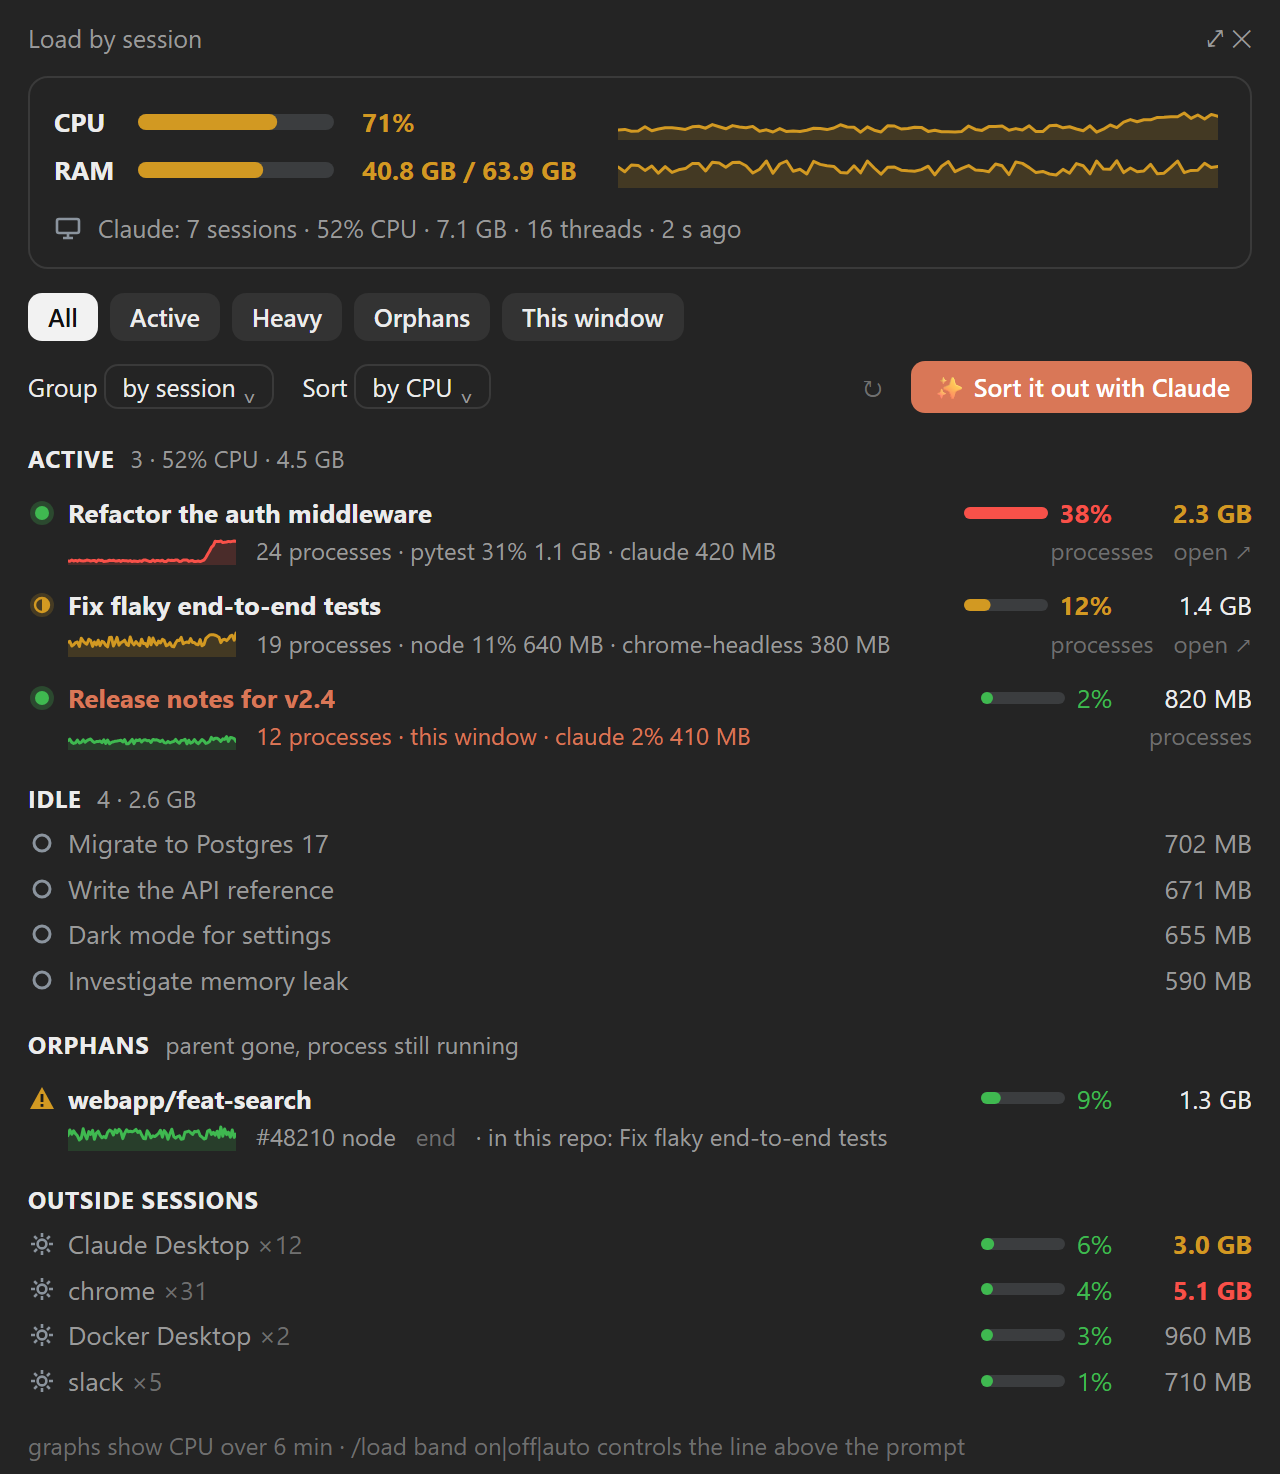
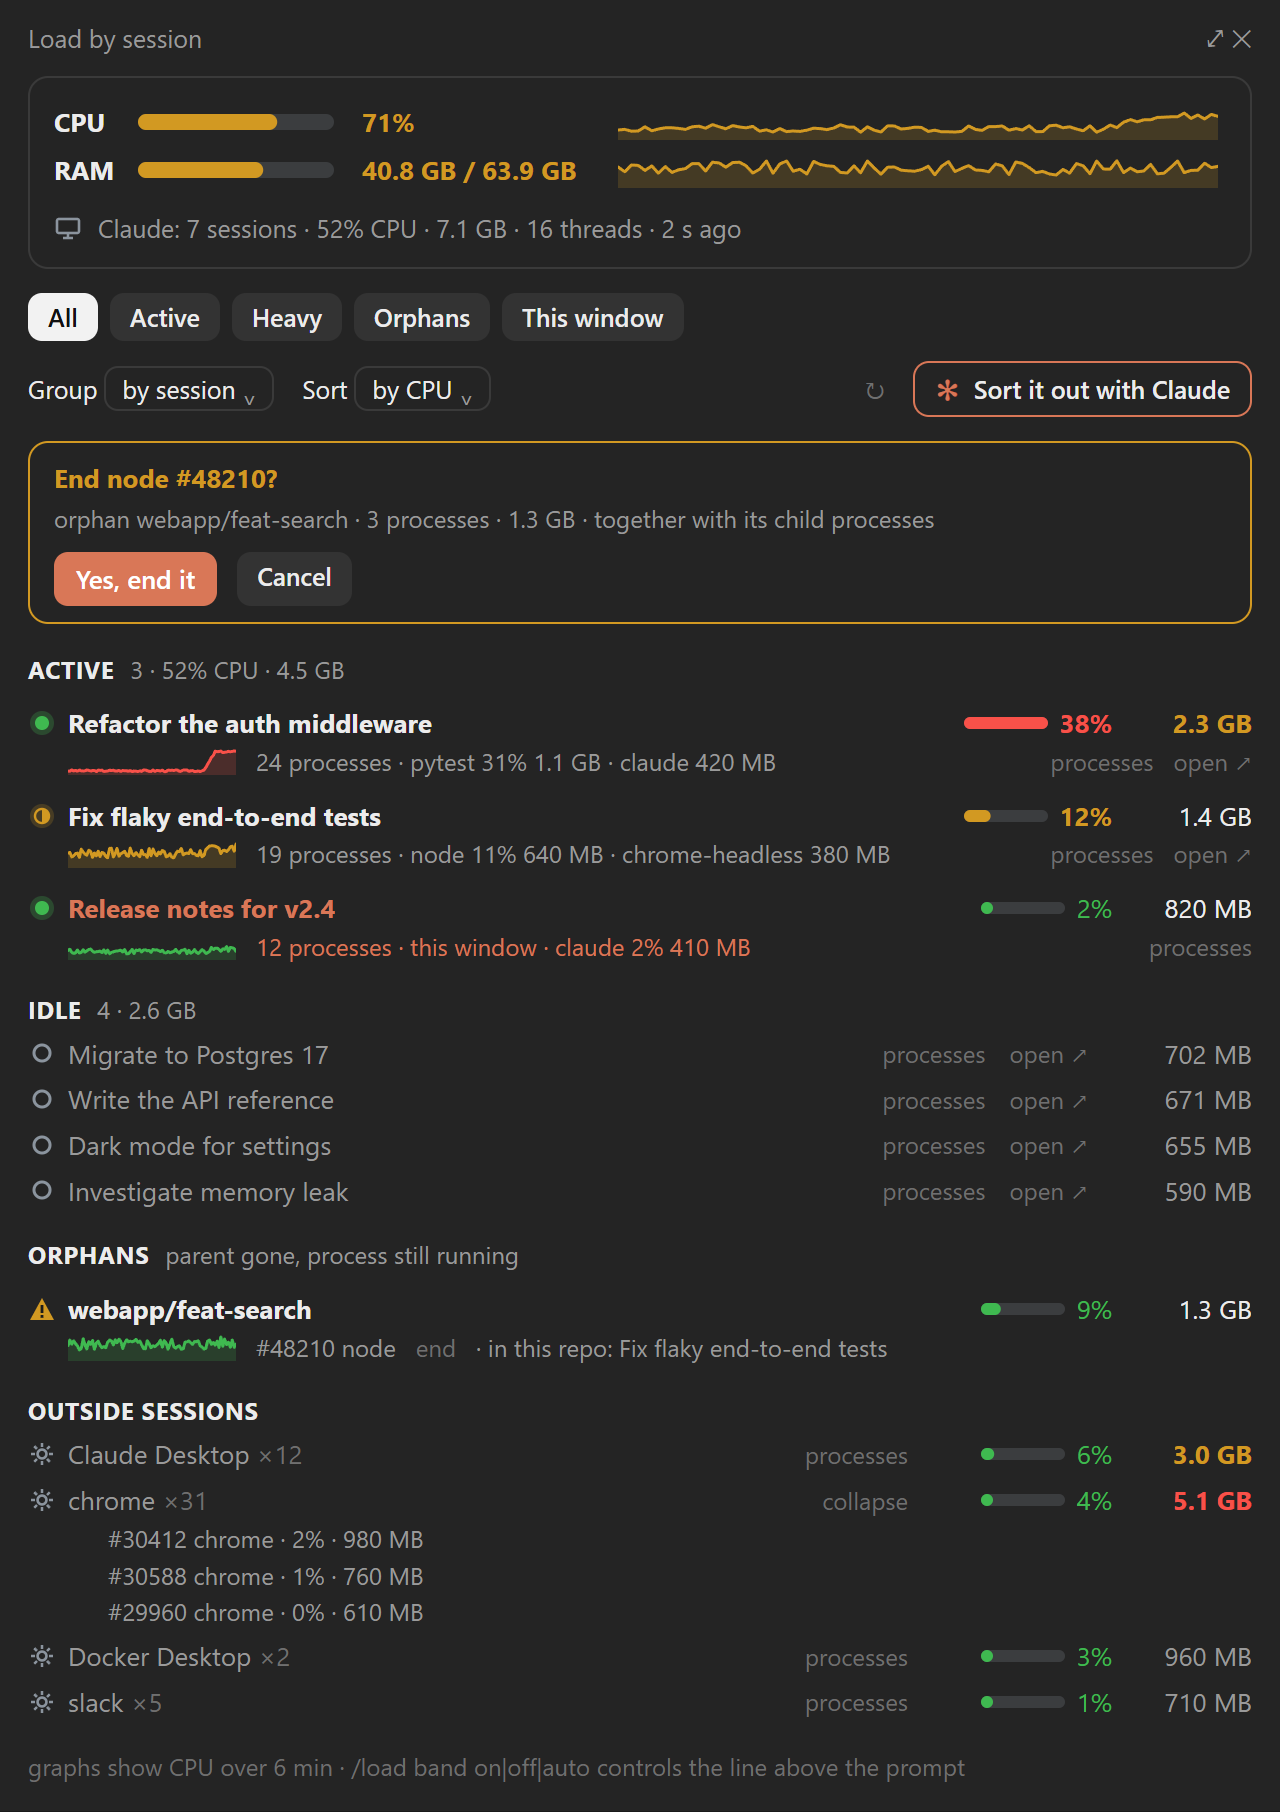
docs: screenshots for the 1.1.0 pane
The mock's pane scene follows 1.1.0: idle sessions on one line with
their buttons, the end confirmation with the live tree's size and
memory, an outside group expanded to its heaviest PIDs, and the triage
button with Claude's mark in an orange frame. pane.png (640x906) and the
social preview are rendered again; band and terminal are unchanged.

diff --git a/docs/mock/index.html b/docs/mock/index.html
@@ -29,6 +29,16 @@
   .select::after { content: "  ⌄"; color: var(--dim); }
   .grow { flex: 1; }
   .primary { background: var(--accent); color: #fff; border-radius: 7px; padding: 4px 11px; font-weight: 600; }
+  .claude { border: 1px solid var(--accent); border-radius: 8px; padding: 3px 10px; display: flex; gap: 7px; align-items: center; font-weight: 600; }
+  .claude b { color: var(--accent); font-size: 14px; }
+  .confirm { border: 1px solid var(--warn); border-radius: 10px; padding: 8px 12px; margin-top: 12px; }
+  .confirm .q { color: var(--warn); font-weight: 700; }
+  .confirm .note { color: var(--dim); font-size: 12px; margin-top: 2px; }
+  .confirm .btns { display: flex; gap: 10px; margin-top: 8px; }
+  .row.line { grid-template-columns: 20px 1fr auto 70px; }
+  .row.line .acts { display: flex; gap: 12px; color: var(--faint); font-size: 12px; margin-right: 12px; }
+  .row.out { grid-template-columns: 20px 1fr auto 96px 70px; }
+  .pid { padding-left: 40px; color: var(--dim); font-size: 12px; margin-top: 1px; }
   .section { margin-top: 14px; font-weight: 700; letter-spacing: .03em; font-size: 12px; }
   .section span { color: var(--dim); font-weight: 400; letter-spacing: 0; margin-left: 8px; }
   .row { display: grid; grid-template-columns: 20px 1fr 96px 70px; align-items: center; margin-top: 9px; }
@@ -102,7 +112,11 @@ const demo = {
     { name: 'Dark mode for settings', mem: 655 }, { name: 'Investigate memory leak', mem: 590 },
   ],
   orphans: [{ label: 'webapp/feat-search', cpu: 9, mem: 1350, procs: 3, pid: 48210, name: 'node', owners: 'Fix flaky end-to-end tests', h: hist(8, 1, 90, 5) }],
-  outside: [{ name: 'Claude Desktop', count: 12, cpu: 6, mem: 3060 }, { name: 'chrome', count: 31, cpu: 4, mem: 5240 }, { name: 'Docker Desktop', count: 2, cpu: 3, mem: 960 }, { name: 'slack', count: 5, cpu: 1, mem: 710 }],
+  outside: [
+    { name: 'Claude Desktop', count: 12, cpu: 6, mem: 3060 },
+    { name: 'chrome', count: 31, cpu: 4, mem: 5240, open: [{ pid: 30412, cpu: 2, mem: 980 }, { pid: 30588, cpu: 1, mem: 760 }, { pid: 29960, cpu: 0, mem: 610 }] },
+    { name: 'Docker Desktop', count: 2, cpu: 3, mem: 960 }, { name: 'slack', count: 5, cpu: 1, mem: 710 },
+  ],
   mcpu: hist(32, 39, 90, 2), mmem: hist(60, 4, 90, 9).map(x => Math.min(100, x)),
 }
 const scale = Math.max(5, ...demo.active.map(r => r.cpu), ...demo.orphans.map(o => o.cpu))
@@ -117,11 +131,16 @@ function pane() {
   const active = d.active.map(r => `
     <div class="row">${icon(r.status)}<div class="name ${r.self ? 'self' : ''}">${r.name}</div>${cpuCell(r.cpu)}<div class="mem ${memCls(r.mem)}">${mem(r.mem)}</div></div>
     <div class="sub">${spark(r.h, 84, 14, HEX[tone(Math.max(r.cpu, ...r.h.slice(-5)))])}<span class="meta" ${r.self ? 'style="color:var(--accent)"' : ''}>${r.procs} processes · ${r.meta}</span><span class="act">processes</span>${r.self ? '' : '<span class="act">open ↗</span>'}</div>`).join('')
-  const idle = d.idle.map(r => `<div class="row idle">${icon('idle')}<div class="name">${r.name}</div><div></div><div class="mem" style="color:var(--dim)">${mem(r.mem)}</div></div>`).join('')
+  const idle = d.idle.map(r => `<div class="row idle line">${icon('idle')}<div class="name">${r.name}</div><div class="acts"><span>processes</span><span>open ↗</span></div><div class="mem" style="color:var(--dim)">${mem(r.mem)}</div></div>`).join('')
   const orphans = d.orphans.map(o => `
     <div class="row">${icon('orphan')}<div class="name">${o.label}</div>${cpuCell(o.cpu)}<div class="mem">${mem(o.mem)}</div></div>
     <div class="sub">${spark(o.h, 84, 14, HEX[tone(o.cpu)])}<span>#${o.pid} ${o.name}</span><span class="act">end</span><span class="meta">· in this repo: ${o.owners}</span></div>`).join('')
-  const outside = d.outside.map(x => `<div class="row idle">${icon('proc')}<div class="name">${x.name} <span style="color:var(--faint)">×${x.count}</span></div>${cpuCell(x.cpu)}<div class="mem ${memCls(x.mem)}" style="${memCls(x.mem) ? '' : 'color:var(--dim)'}">${mem(x.mem)}</div></div>`).join('')
+  const outside = d.outside.map(x => `<div class="row idle out">${icon('proc')}<div class="name">${x.name} <span style="color:var(--faint)">×${x.count}</span></div><span class="act" style="font-size:12px;margin-right:6px">${x.open ? 'collapse' : 'processes'}</span>${cpuCell(x.cpu)}<div class="mem ${memCls(x.mem)}" style="${memCls(x.mem) ? '' : 'color:var(--dim)'}">${mem(x.mem)}</div></div>` +
+    (x.open ?? []).map(p => `<div class="pid">#${p.pid} ${x.name} · ${pct(p.cpu)} · ${mem(p.mem)}</div>`).join('')).join('')
+  const o0 = d.orphans[0]
+  const confirm = `<div class="confirm"><div class="q">End ${o0.name} #${o0.pid}?</div>
+    <div class="note">orphan ${o0.label} · 3 processes · ${mem(o0.mem)} · together with its child processes</div>
+    <div class="btns"><span class="primary">Yes, end it</span><span class="chip">Cancel</span></div></div>`
   const claudeCpu = d.active.reduce((a, r) => a + r.cpu, 0), claudeMem = d.active.reduce((a, r) => a + r.mem, 0) + d.idle.reduce((a, r) => a + r.mem, 0)
   return `<div class="pane">
     <div class="title"><span>Load by session</span><span>⤢ ✕</span></div>
@@ -131,7 +150,8 @@ function pane() {
       <div class="machine">${icon('machine')}<span>Claude: 7 sessions · ${pct(claudeCpu)} CPU · ${mem(claudeMem)} · 16 threads · ${d.age} s ago</span></div>
     </div>
     <div class="chips"><span class="chip on">All</span><span class="chip">Active</span><span class="chip">Heavy</span><span class="chip">Orphans</span><span class="chip">This window</span></div>
-    <div class="tools"><span>Group <span class="select">by session</span></span><span>Sort <span class="select">by CPU</span></span><span class="grow"></span><span class="act">↻</span><span class="primary">✨ Sort it out with Claude</span></div>
+    <div class="tools"><span>Group <span class="select">by session</span></span><span>Sort <span class="select">by CPU</span></span><span class="grow"></span><span class="act">↻</span><span class="claude"><b>✻</b>Sort it out with Claude</span></div>
+    ${confirm}
     <div class="section">ACTIVE<span>3 · ${pct(claudeCpu)} CPU · ${mem(d.active.reduce((a, r) => a + r.mem, 0))}</span></div>
     ${active}
     <div class="section">IDLE<span>4 · ${mem(d.idle.reduce((a, r) => a + r.mem, 0))}</span></div>

diff --git a/docs/mock/README.md b/docs/mock/README.md
@@ -8,7 +8,7 @@ Regenerate with a Chromium-based browser in headless mode (paths for Windows; on
 `/Applications/Google Chrome.app/Contents/MacOS/Google Chrome`):
 
 ```
-chrome --headless=new --hide-scrollbars --force-device-scale-factor=2 --window-size=640,737 --screenshot=docs/screenshots/pane.png "file:///<repo>/docs/mock/index.html?scene=pane"
+chrome --headless=new --hide-scrollbars --force-device-scale-factor=2 --window-size=640,906 --screenshot=docs/screenshots/pane.png "file:///<repo>/docs/mock/index.html?scene=pane"
 chrome --headless=new --hide-scrollbars --force-device-scale-factor=1 --window-size=1280,640 --screenshot=docs/screenshots/social-preview.png "file:///<repo>/docs/mock/index.html?scene=social"
 chrome --headless=new --hide-scrollbars --force-device-scale-factor=2 --window-size=820,104 --screenshot=docs/screenshots/band.png "file:///<repo>/docs/mock/index.html?scene=band"
 chrome --headless=new --hide-scrollbars --force-device-scale-factor=2 --window-size=1080,593 --screenshot=docs/screenshots/terminal.png "file:///<repo>/docs/mock/index.html?scene=terminal"
